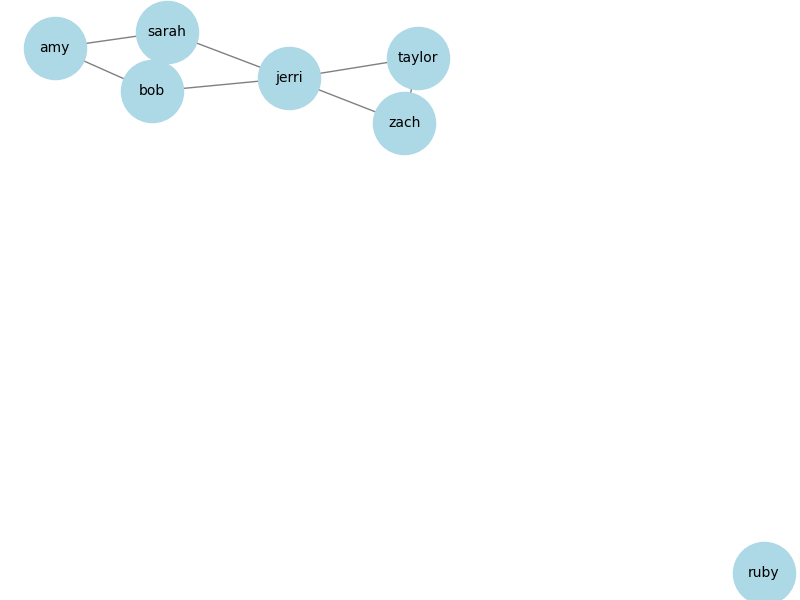
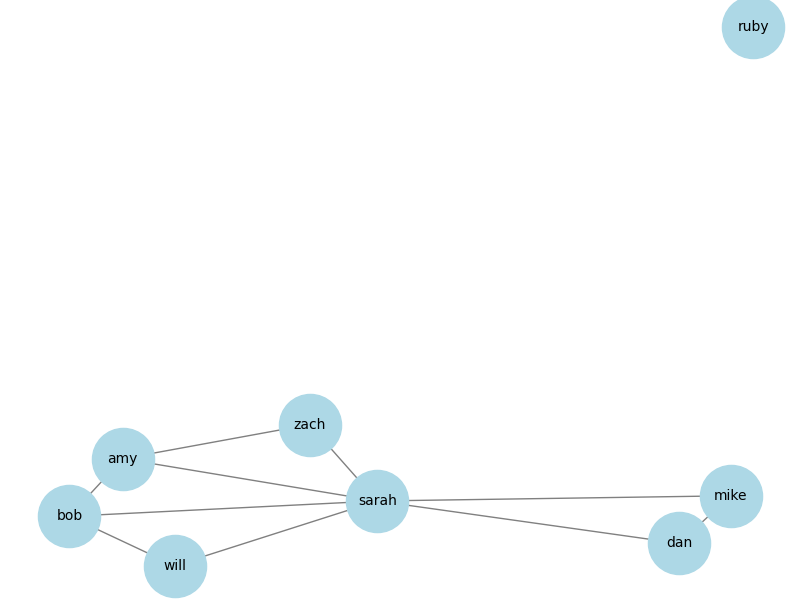
new push to main

diff --git a/intake_form/templates/intake_form/success.html b/intake_form/templates/intake_form/success.html
@@ -2,10 +2,39 @@
 <html>
 <head>
     <title>Success</title>
+    <style>
+        .container {
+            display: flex;
+        }
+        .content {
+            flex: 1;
+            margin-right: 20px;
+        }
+        .graph {
+            flex: 1;
+        }
+    </style>
 </head>
 <body>
     <h1>Process Submitted Successfully</h1>
-    <p>Clique Ratio: {{ clique_ratio }}</p>
-    <img src="{{ image_path }}" alt="Clique Ratio Analysis">
+    <div class="container">
+        <div class="content">
+            <p>Bottlenecks (steps with high betweenness centrality):</p>
+            <ul>
+                {% for step, centrality in clique_ratio %}
+                    <li>{{ step }}: {{ centrality }}</li>
+                {% endfor %}
+            </ul>
+            <h2>Submitted Steps</h2>
+            <ul>
+                {% for step in steps_data %}
+                    <li>Name: {{ step.name }}, Duration: {{ step.duration_value }} {{ step.duration_unit }}, Contributors: {{ step.contributors }}</li>
+                {% endfor %}
+            </ul>
+        </div>
+        <div class="graph">
+            <img src="/{{ image_path }}" alt="Process Diagram">
+        </div>
+    </div>
 </body>
 </html>

diff --git a/intake_form/views.py b/intake_form/views.py
@@ -1,7 +1,7 @@
 from django.shortcuts import render, redirect
-from .forms import ProcessForm, ProcessStepForm, ContributorForm
-from .models import Process, ProcessStep, Contributor
-from clique_ratio_analysis.analysis import perform_clique_ratio_analysis
+from .forms import ProcessForm, ProcessStepForm
+from .models import Process, ProcessStep
+from .process_analysis import analyze_process
 
 def submit_process_form(request):
     if request.method == 'POST':
@@ -20,41 +20,31 @@ def submit_process_form(request):
                 steps_data.append(step_data)
                 step_index += 1
 
-            print(f"Steps data: {steps_data}")
-            clique_ratio = None
+            bottlenecks = None
             image_path = None
-            all_contributors = []
             if steps_data:
+                steps_dict = {}
                 for step_data in steps_data:
-                    print(f"Processing step data: {step_data}")
                     step_form = ProcessStepForm(step_data)
                     if step_form.is_valid():
                         step = step_form.save(commit=False)
                         step.process = process
                         step.save()
                         process.steps.add(step)
-                        # Parse contributors
                         contributors_text = step_data.get('contributors', '')
                         contributors = [name.strip() for name in contributors_text.split(',')]
-                        all_contributors.append(contributors)
-                        print(f"Contributors: {contributors}")
-                    else:
-                        print(f"Step form is not valid: {step_form.errors}")
-                # Perform clique-ratio analysis
-                clique_ratio, image_path = perform_clique_ratio_analysis(all_contributors)
-            else:
-                print("No steps data provided")
+                        steps_dict[step.name] = contributors
+                bottlenecks, image_path = analyze_process(steps_dict)
 
-            if clique_ratio is not None and image_path is not None:
+            if bottlenecks is not None:
                 return render(request, 'intake_form/success.html',
-                              {'clique_ratio': clique_ratio, 'image_path': image_path})
+                              {'clique_ratio': bottlenecks, 'image_path': image_path.replace('intake_form/static/', 'static/'), 'steps_data': steps_data})
             else:
                 return render(request, 'intake_form/submit_form.html',
                               {'process_form': process_form, 'error': 'Invalid step data or no steps provided'})
-        else:
-            print(f"Process form is not valid: {process_form.errors}")
     else:
         process_form = ProcessForm()
     return render(request, 'intake_form/submit_form.html', {'process_form': process_form})
+
 def success_page(request):
     return render(request, 'intake_form/success.html')

diff --git a/intake_form/process_analysis.py b/intake_form/process_analysis.py
@@ -1,0 +1,34 @@
+import os
+import matplotlib
+matplotlib.use('Agg')  # Use the Agg backend for non-interactive plotting
+import networkx as nx
+import matplotlib.pyplot as plt
+
+def analyze_process(steps):
+    B = nx.Graph()
+    for step, resources in steps.items():
+        for resource in resources:
+            B.add_edge(step, resource)
+
+    # Project bipartite graph to one-mode graph
+    G = nx.bipartite.weighted_projected_graph(B, steps.keys())
+    betweenness_centrality = nx.betweenness_centrality(G, weight='weight')
+    bottlenecks = sorted(betweenness_centrality.items(), key=lambda x: x[1], reverse=True)
+
+    # Ensure the directory exists
+    output_dir = 'intake_form/static/intake_form'
+    os.makedirs(output_dir, exist_ok=True)
+
+    # Draw the graph
+    pos = nx.spring_layout(G)
+    plt.figure(figsize=(12, 10))
+    nx.draw_networkx_nodes(G, pos, node_size=800, node_color='skyblue', edgecolors='black')
+    nx.draw_networkx_edges(G, pos, width=2, edge_color='gray')
+    nx.draw_networkx_labels(G, pos, font_size=12, font_color='black', font_weight='bold')
+    nx.draw_networkx_edge_labels(G, pos, edge_labels=nx.get_edge_attributes(G, 'weight'), font_color='red')
+
+    image_path = os.path.join(output_dir, 'process_diagram.png')
+    plt.savefig(image_path, format='PNG')
+    plt.close()
+
+    return bottlenecks, image_path
